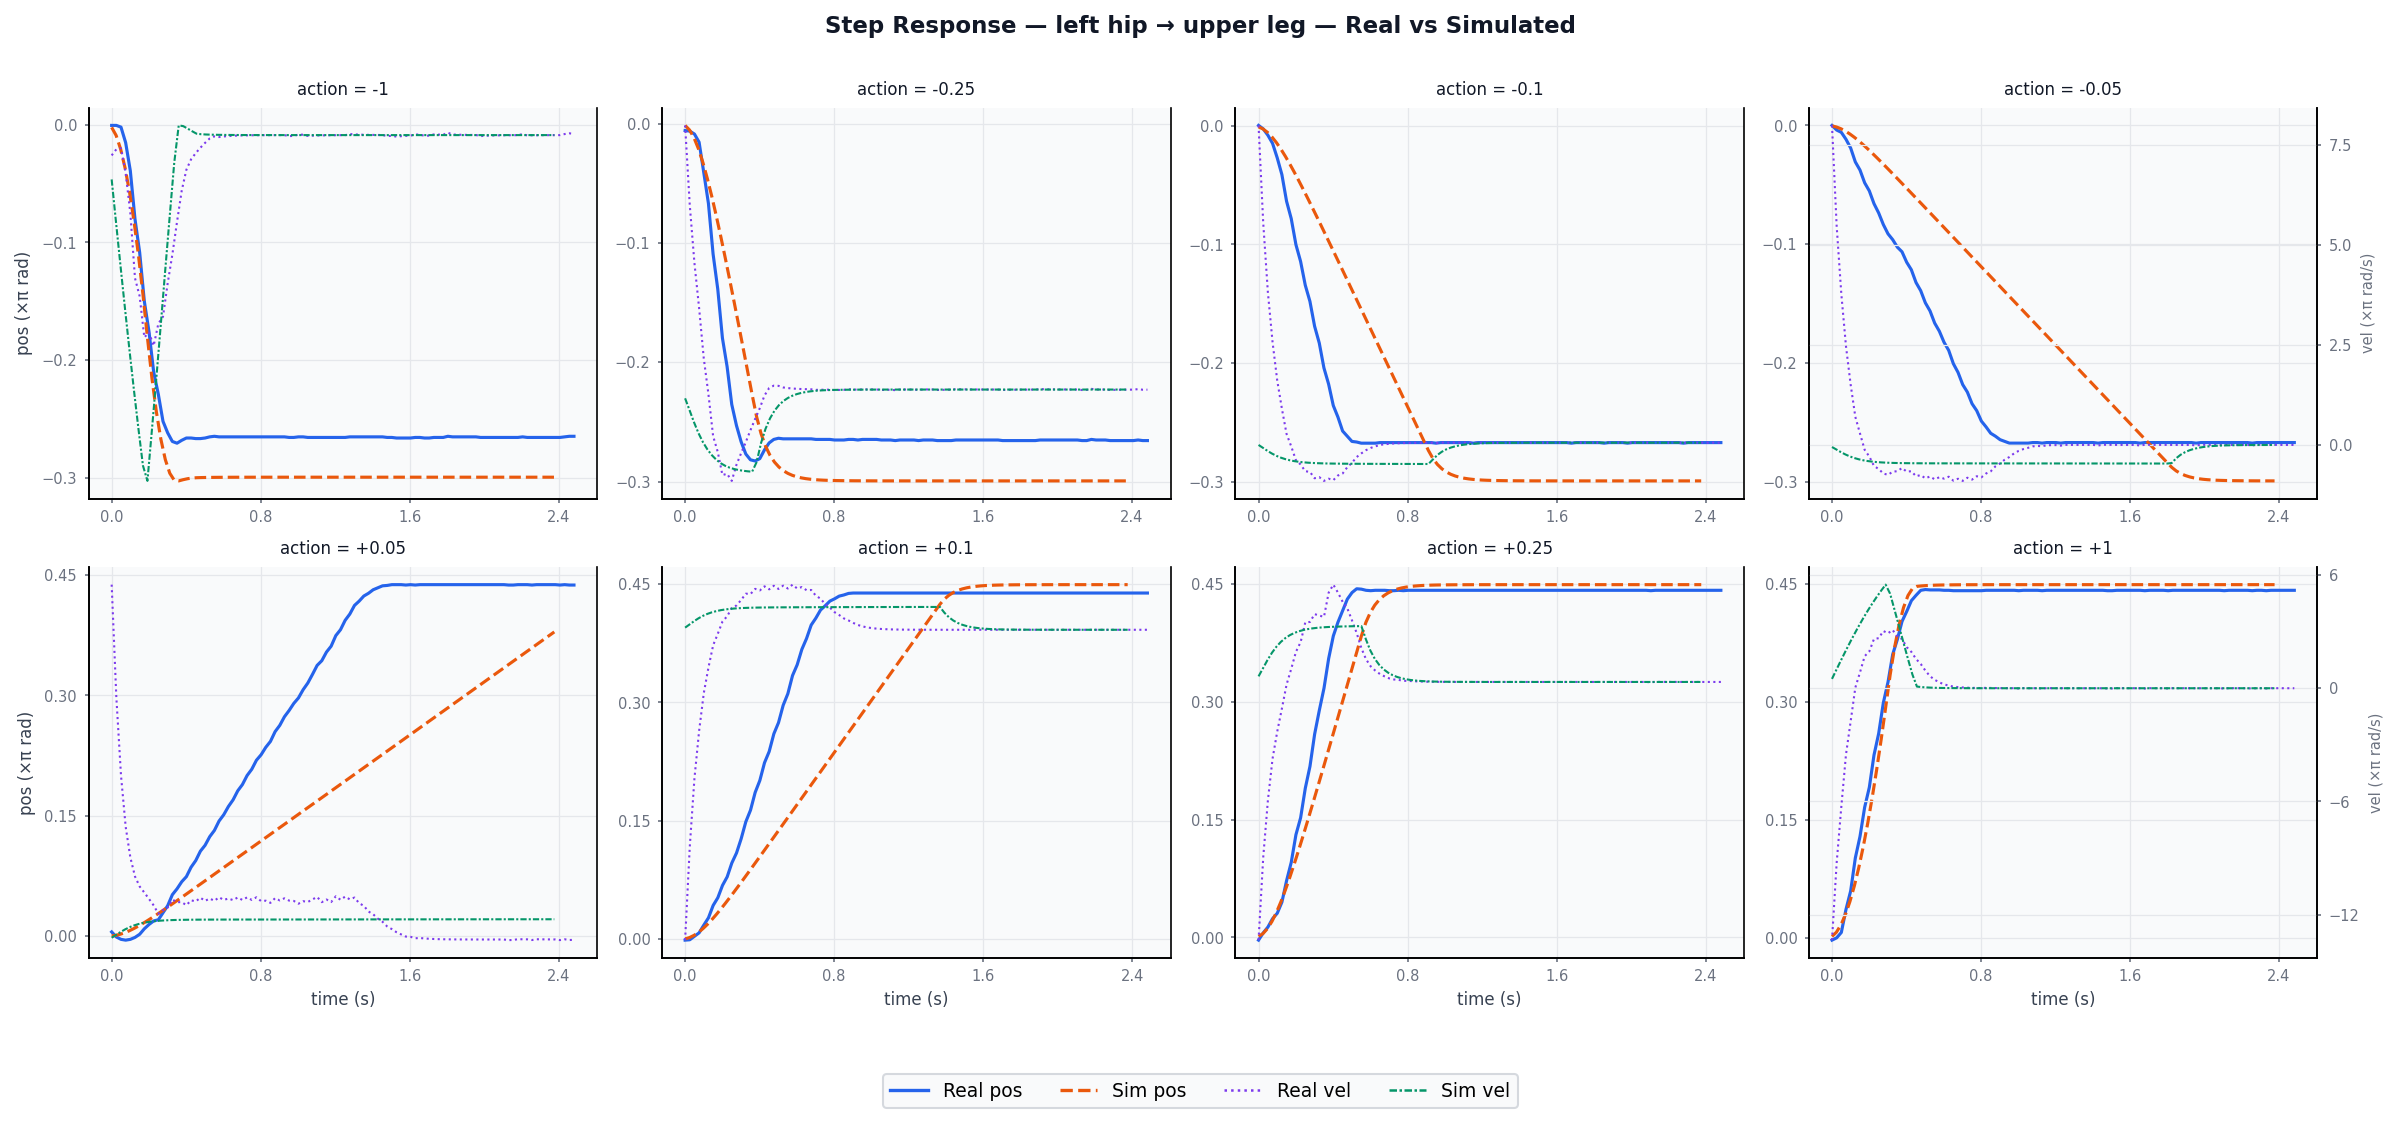
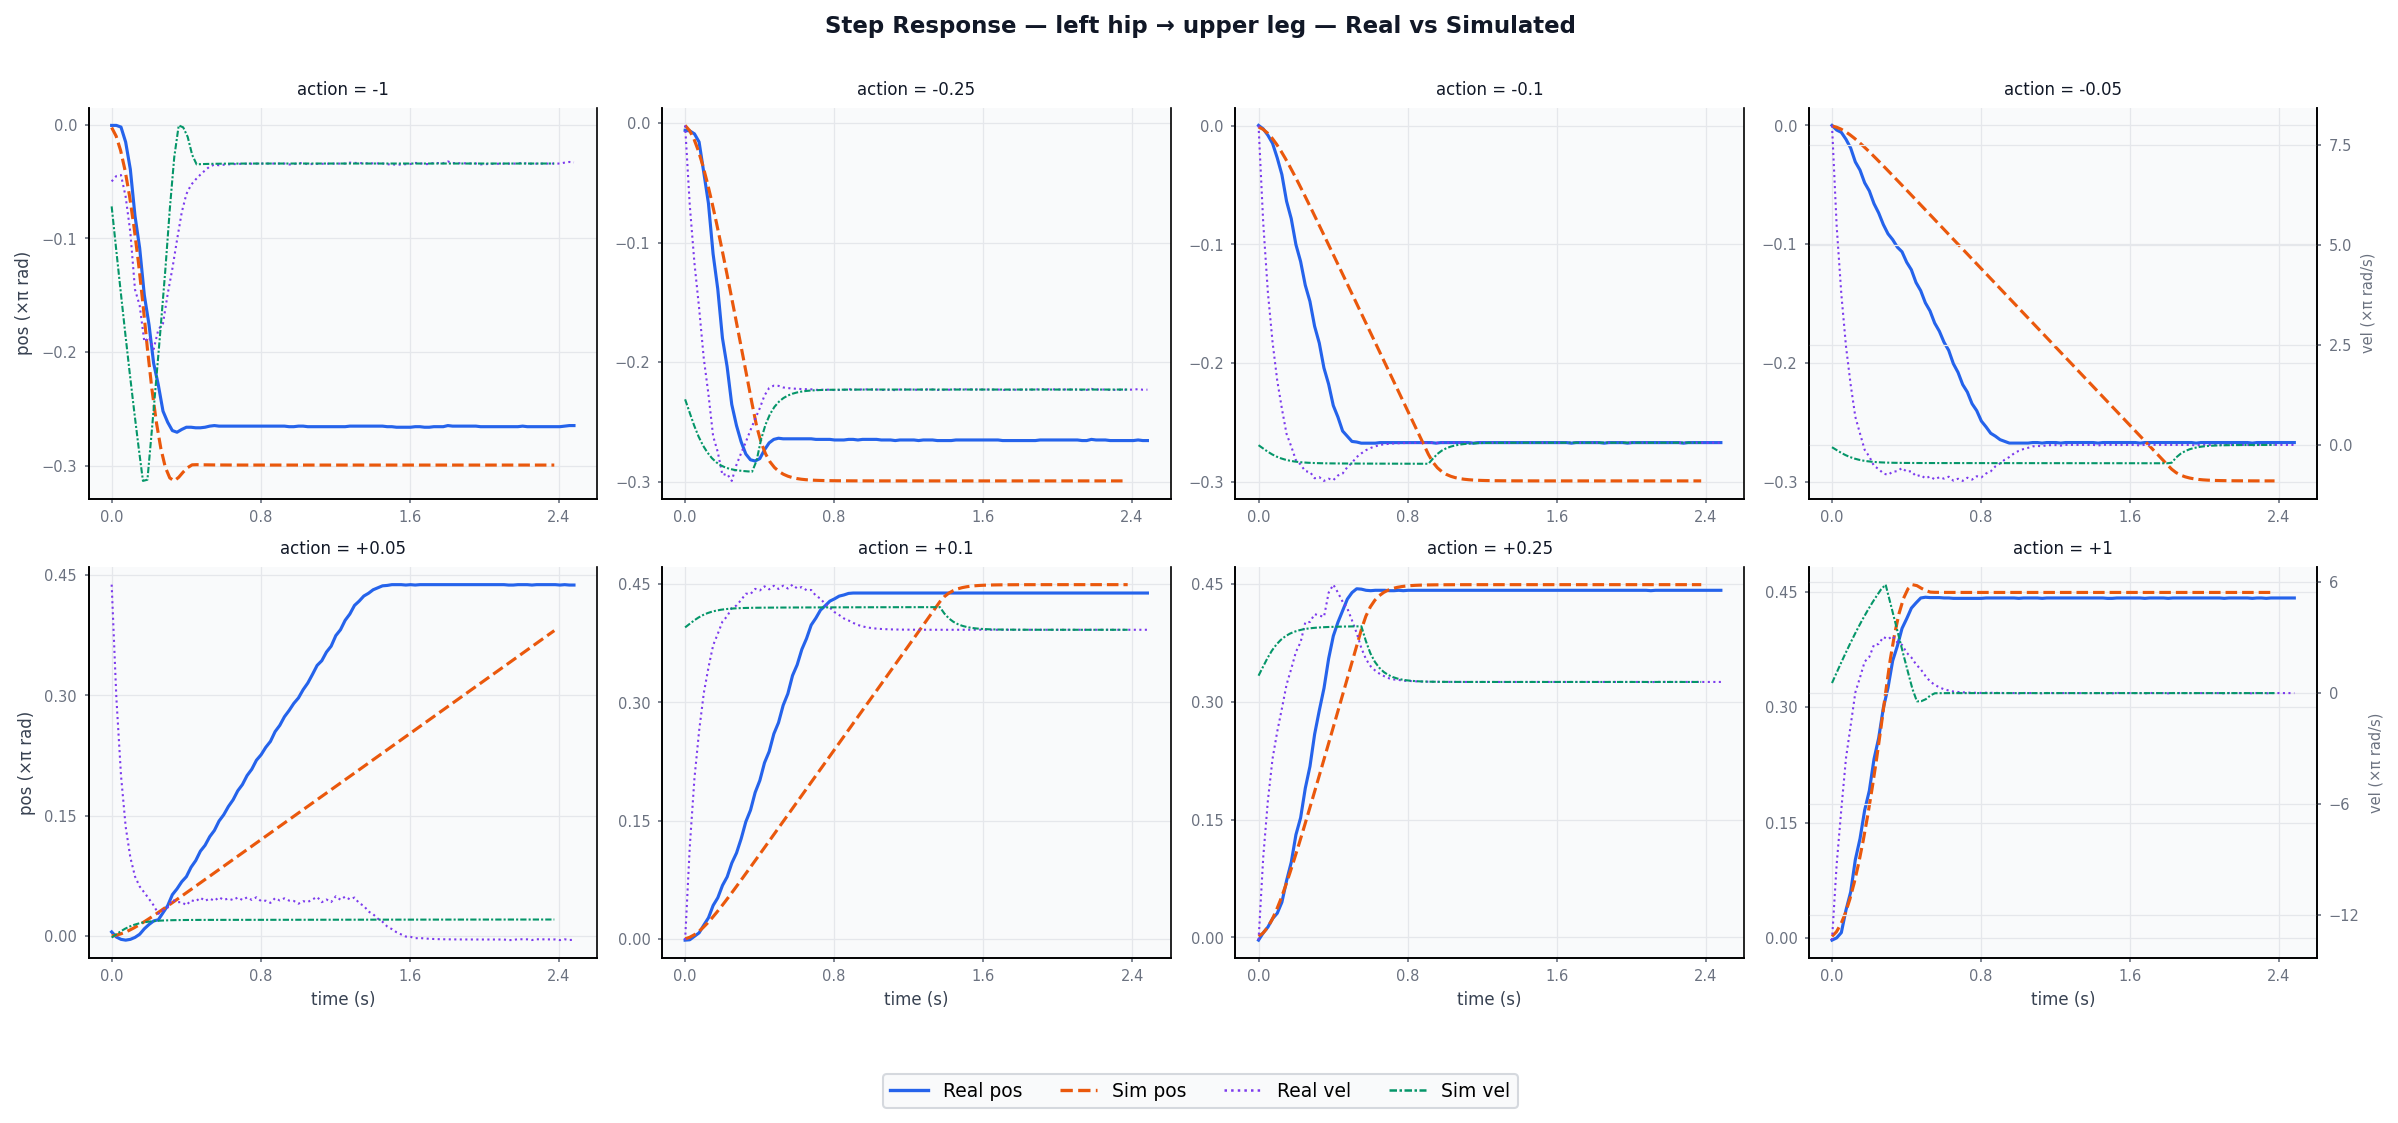
Make standing and walking reward multiplicative and fix AMP state ordering issue

diff --git a/src/gnoci_gym/env.py b/src/gnoci_gym/env.py
@@ -130,7 +130,7 @@ class GnociGymEnv(gym.Env):
             task='stand',
             reward_coefs=None,
             fix_root_body=False,
-            apply_tanh2_action_map=False,
+            apply_tanh2_action_map=True,
         ):
         self.apply_tanh2_action_map = apply_tanh2_action_map
         self.camera = camera
@@ -461,8 +461,7 @@ class GnociGymEnv(gym.Env):
             heading_reward      = self._get_heading_reward()
             yoke_joint_reward   = self._get_yoke_joint_reward()
             return (
-                c['stand']        * stand_reward
-                + c['velocity']   * velocity_reward
+                c['stand'] * stand_reward * (1 + c['velocity'] * velocity_reward)
                 + c['foot_contact'] * foot_contact_reward
                 + c['foot_airtime'] * foot_airtime_reward
                 + c['orientation']  * orientation_reward
@@ -500,7 +499,7 @@ class GnociGymEnv(gym.Env):
             self.data.ctrl[i] = float(np.clip(self.data.ctrl[i] + delta, lo, hi))
         for _ in range(self.n_substeps):
             mujoco.mj_step(self.model, self.data)
-        state, noisey_state = self._get_obs()
+        noisey_state, state = self._get_obs()
         reward = self._get_reward()
         if self.overturned() or self._root_body_on_ground():
             self.done = True

diff --git a/src/gnoci_gym/reference_env.py b/src/gnoci_gym/reference_env.py
@@ -121,7 +121,9 @@ class ReferenceEnv:
             stacked = np.zeros((n_ref, _OBS_DIM * self.frame_stack), dtype=np.float32)
             for i in range(n_ref):
                 for k in range(self.frame_stack):
-                    idx = (i - k) % n_ref
+                    # Match gym.wrappers.FrameStackObservation ordering: oldest
+                    # frame first, newest frame last.
+                    idx = (i - (self.frame_stack - 1 - k)) % n_ref
                     stacked[i, k * _OBS_DIM:(k + 1) * _OBS_DIM] = dataset[idx]
             dataset = stacked
 
